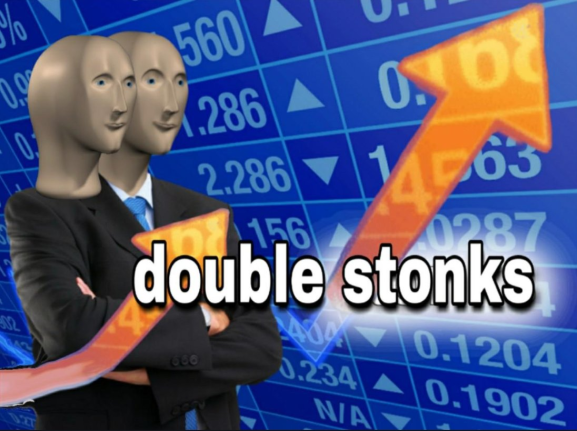
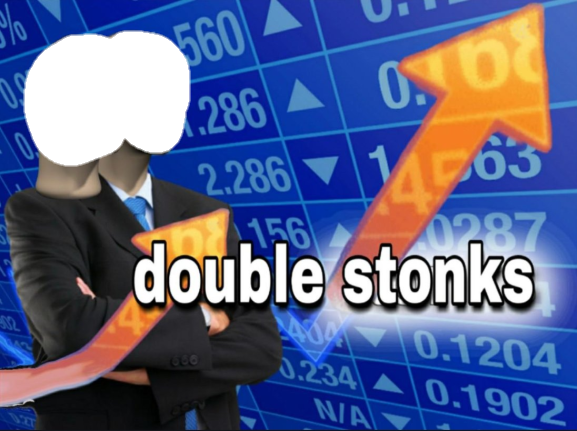
Added doublestonk

Changed region(s): [[0.0312, 0.0603, 0.3432, 0.3921]]

diff --git a/src/module/montage/doubleStonk.js b/src/module/montage/doubleStonk.js
@@ -1,0 +1,28 @@
+const jimp = require("jimp");
+
+module.exports = class DoubleStonk {
+    /**
+     * DoubleStonk
+     * @param {image} image1 
+     * @param {image} image2 
+     */
+    async getImage(image1, image2) {
+        if (!image1) throw new Error("You must provide an image as a first argument.");
+        if (!image2) throw new Error("You must provide an image as a second argument.");
+        let base = await jimp.read(`${__dirname}/../../assets/doubleStonk.png`);
+        image1 = await jimp.read(image1);
+        image2 = await jimp.read(image2);
+        image1.circle();
+        image2.circle();
+        base.resize(577, 431);
+        image1.resize(140, 140);
+        image2.resize(140, 140);
+        base.composite(image2, 60, 20);
+        base.composite(image1, 0, 30);
+        let raw;
+        base.getBuffer("image/png", (err, buffer) => {
+            raw = buffer;
+        });
+        return raw;
+    }
+}

diff --git a/README.md b/README.md
@@ -133,6 +133,10 @@ bot.login("super_secret_token")
 
 ![Delete](https://imgur.com/6V1IYJp.png)
 
+- ``new DIG.DoubleStonk().getImage(`<Avatar`, `<Avatar2>`)``
+
+![DoubleStonk](https://imgur.com/HbuuUC6.png)
+
 - ``new DIG.Facepalm().getImage(`<Avatar>`);``
 
 ![Facepalm](https://imgur.com/cdPC3P1.png)
